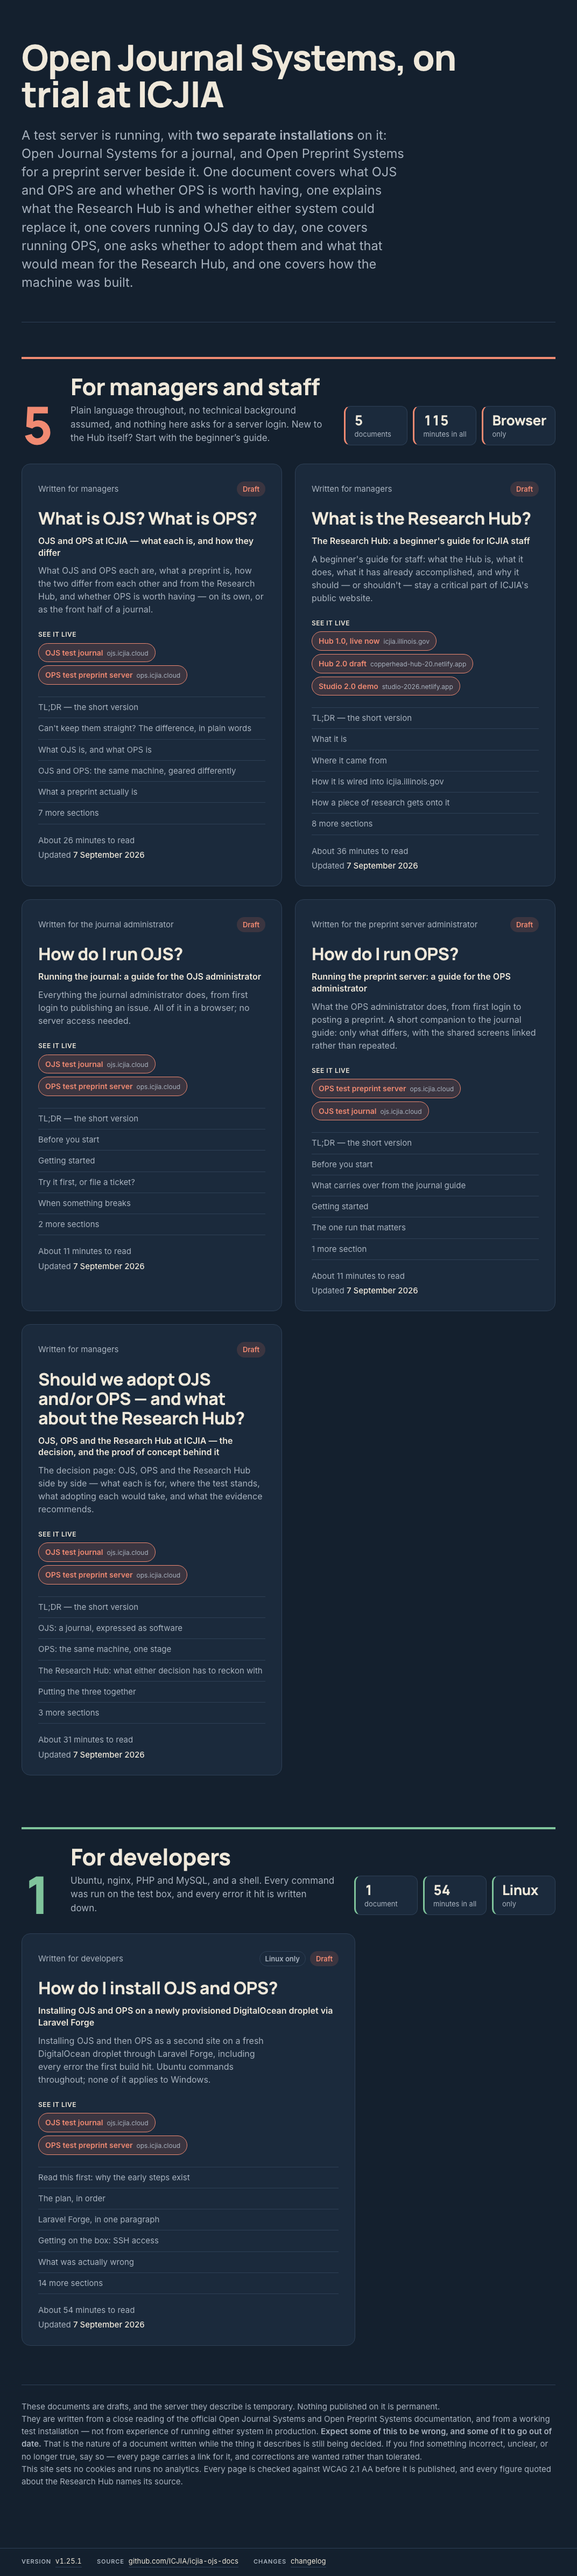
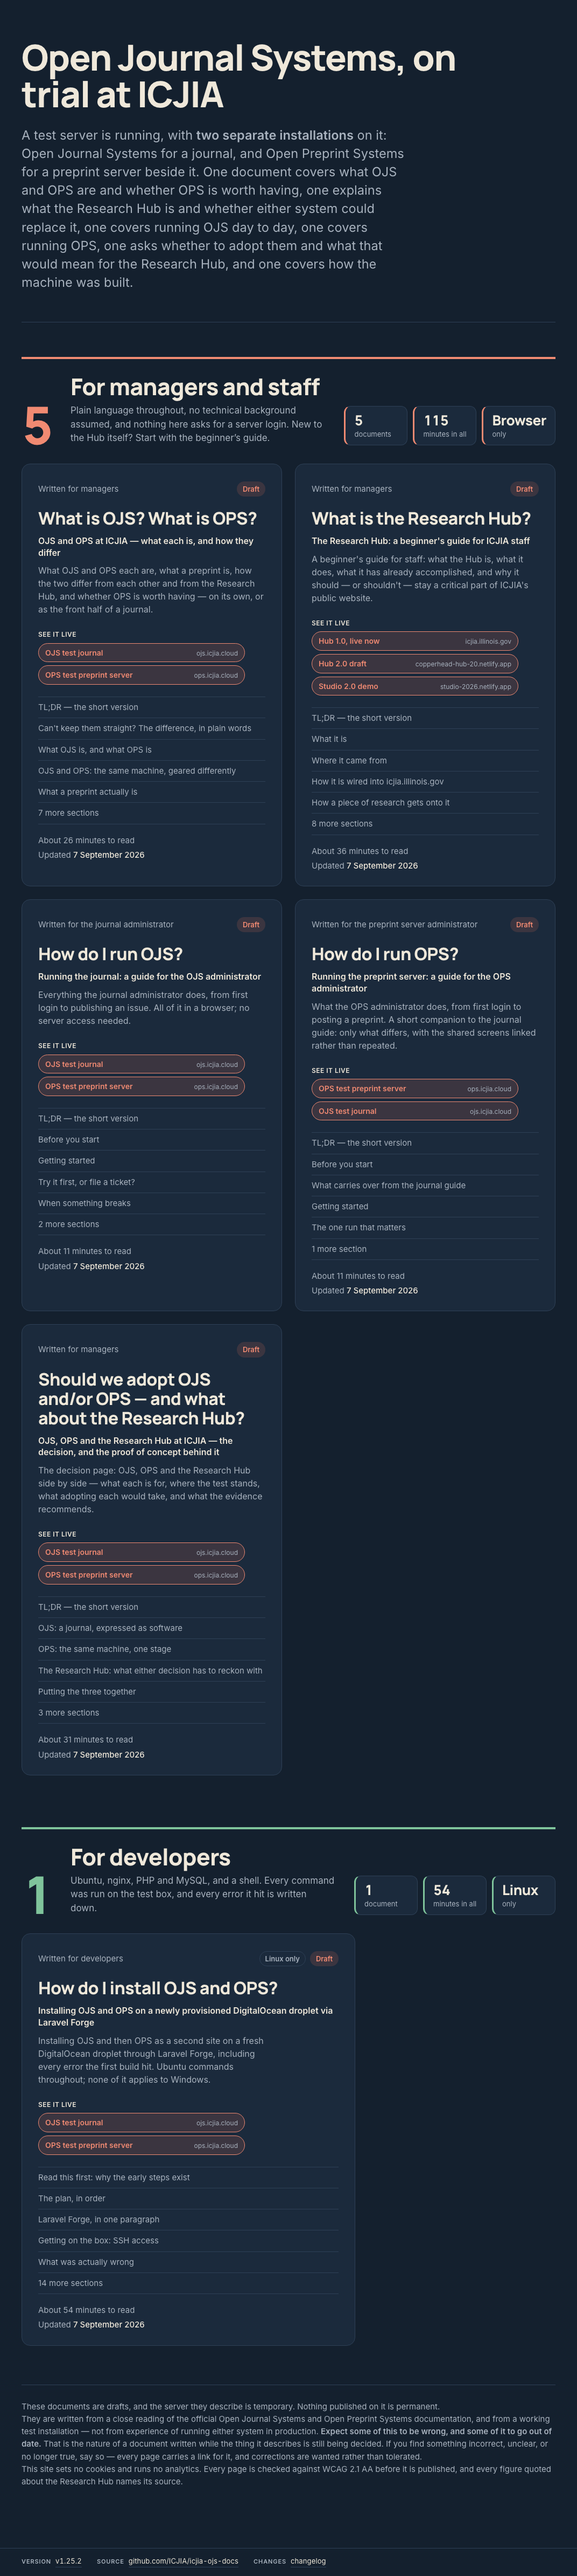
Release 1.25.2: "See it live" chips are one width everywhere
On the portal cards and on every document page each chip is now the
same fixed width - 24rem, capped at the container on narrow screens -
with the label at the left edge and the address at the right, so a
stack of chips reads as a column rather than a ragged list. On screens
too narrow for the width the address wraps under the label instead of
overflowing. One rule in the portal stylesheet and the same rule in
each of the six self-contained documents. Screenshots retaken.

diff --git a/src/documents/forge-droplet-runbook.html b/src/documents/forge-droplet-runbook.html
@@ -38,7 +38,7 @@
   /* see it live */
   .see{display:grid;justify-items:start;gap:10px;margin:22px 0 0;padding:18px 22px;border-radius:14px;border:1px solid var(--rule);background:var(--ink-2);font-size:17px;line-height:1.4;color:var(--paper-dim);max-width:none}
   .see .k{font-weight:700;color:var(--paper)}
-  .see a{display:inline-flex;align-items:baseline;gap:8px;padding:8px 14px;border-radius:999px;border:1px solid var(--pencil);background:var(--pencil-soft);color:var(--pencil);font-weight:600;text-decoration:none;white-space:nowrap}
+  .see a{display:flex;flex-wrap:wrap;justify-content:space-between;align-items:baseline;gap:4px 14px;box-sizing:border-box;width:min(24rem,100%);padding:8px 14px;border-radius:999px;border:1px solid var(--pencil);background:var(--pencil-soft);color:var(--pencil);font-weight:600;text-decoration:none}
   .see a small{font-weight:400;font-size:.85em;color:var(--paper-dim)}
   .see a:hover,.see a:focus-visible{background:var(--pencil);color:var(--ink)}
   .see a:hover small,.see a:focus-visible small{color:var(--ink)}

diff --git a/src/documents/ojs-administrator-guide.html b/src/documents/ojs-administrator-guide.html
@@ -38,7 +38,7 @@
   /* see it live */
   .see{display:grid;justify-items:start;gap:10px;margin:22px 0 0;padding:18px 22px;border-radius:14px;border:1px solid var(--rule);background:var(--ink-2);font-size:17px;line-height:1.4;color:var(--paper-dim);max-width:none}
   .see .k{font-weight:700;color:var(--paper)}
-  .see a{display:inline-flex;align-items:baseline;gap:8px;padding:8px 14px;border-radius:999px;border:1px solid var(--pencil);background:var(--pencil-soft);color:var(--pencil);font-weight:600;text-decoration:none;white-space:nowrap}
+  .see a{display:flex;flex-wrap:wrap;justify-content:space-between;align-items:baseline;gap:4px 14px;box-sizing:border-box;width:min(24rem,100%);padding:8px 14px;border-radius:999px;border:1px solid var(--pencil);background:var(--pencil-soft);color:var(--pencil);font-weight:600;text-decoration:none}
   .see a small{font-weight:400;font-size:.85em;color:var(--paper-dim)}
   .see a:hover,.see a:focus-visible{background:var(--pencil);color:var(--ink)}
   .see a:hover small,.see a:focus-visible small{color:var(--ink)}

diff --git a/src/documents/ojs-proof-of-concept.html b/src/documents/ojs-proof-of-concept.html
@@ -38,7 +38,7 @@
   /* see it live */
   .see{display:grid;justify-items:start;gap:10px;margin:22px 0 0;padding:18px 22px;border-radius:14px;border:1px solid var(--rule);background:var(--ink-2);font-size:17px;line-height:1.4;color:var(--paper-dim);max-width:none}
   .see .k{font-weight:700;color:var(--paper)}
-  .see a{display:inline-flex;align-items:baseline;gap:8px;padding:8px 14px;border-radius:999px;border:1px solid var(--pencil);background:var(--pencil-soft);color:var(--pencil);font-weight:600;text-decoration:none;white-space:nowrap}
+  .see a{display:flex;flex-wrap:wrap;justify-content:space-between;align-items:baseline;gap:4px 14px;box-sizing:border-box;width:min(24rem,100%);padding:8px 14px;border-radius:999px;border:1px solid var(--pencil);background:var(--pencil-soft);color:var(--pencil);font-weight:600;text-decoration:none}
   .see a small{font-weight:400;font-size:.85em;color:var(--paper-dim)}
   .see a:hover,.see a:focus-visible{background:var(--pencil);color:var(--ink)}
   .see a:hover small,.see a:focus-visible small{color:var(--ink)}

diff --git a/src/documents/ops-administrator-guide.html b/src/documents/ops-administrator-guide.html
@@ -38,7 +38,7 @@
   /* see it live */
   .see{display:grid;justify-items:start;gap:10px;margin:22px 0 0;padding:18px 22px;border-radius:14px;border:1px solid var(--rule);background:var(--ink-2);font-size:17px;line-height:1.4;color:var(--paper-dim);max-width:none}
   .see .k{font-weight:700;color:var(--paper)}
-  .see a{display:inline-flex;align-items:baseline;gap:8px;padding:8px 14px;border-radius:999px;border:1px solid var(--pencil);background:var(--pencil-soft);color:var(--pencil);font-weight:600;text-decoration:none;white-space:nowrap}
+  .see a{display:flex;flex-wrap:wrap;justify-content:space-between;align-items:baseline;gap:4px 14px;box-sizing:border-box;width:min(24rem,100%);padding:8px 14px;border-radius:999px;border:1px solid var(--pencil);background:var(--pencil-soft);color:var(--pencil);font-weight:600;text-decoration:none}
   .see a small{font-weight:400;font-size:.85em;color:var(--paper-dim)}
   .see a:hover,.see a:focus-visible{background:var(--pencil);color:var(--ink)}
   .see a:hover small,.see a:focus-visible small{color:var(--ink)}

diff --git a/src/documents/ops-preprint-server.html b/src/documents/ops-preprint-server.html
@@ -37,7 +37,7 @@
   /* see it live */
   .see{display:grid;justify-items:start;gap:10px;margin:22px 0 0;padding:18px 22px;border-radius:14px;border:1px solid var(--rule);background:var(--ink-2);font-size:17px;line-height:1.4;color:var(--paper-dim);max-width:none}
   .see .k{font-weight:700;color:var(--paper)}
-  .see a{display:inline-flex;align-items:baseline;gap:8px;padding:8px 14px;border-radius:999px;border:1px solid var(--pencil);background:var(--pencil-soft);color:var(--pencil);font-weight:600;text-decoration:none;white-space:nowrap}
+  .see a{display:flex;flex-wrap:wrap;justify-content:space-between;align-items:baseline;gap:4px 14px;box-sizing:border-box;width:min(24rem,100%);padding:8px 14px;border-radius:999px;border:1px solid var(--pencil);background:var(--pencil-soft);color:var(--pencil);font-weight:600;text-decoration:none}
   .see a small{font-weight:400;font-size:.85em;color:var(--paper-dim)}
   .see a:hover,.see a:focus-visible{background:var(--pencil);color:var(--ink)}
   .see a:hover small,.see a:focus-visible small{color:var(--ink)}

diff --git a/src/documents/what-is-the-research-hub.html b/src/documents/what-is-the-research-hub.html
@@ -37,7 +37,7 @@
   /* see it live */
   .see{display:grid;justify-items:start;gap:10px;margin:22px 0 0;padding:18px 22px;border-radius:14px;border:1px solid var(--rule);background:var(--ink-2);font-size:17px;line-height:1.4;color:var(--paper-dim);max-width:none}
   .see .k{font-weight:700;color:var(--paper)}
-  .see a{display:inline-flex;align-items:baseline;gap:8px;padding:8px 14px;border-radius:999px;border:1px solid var(--pencil);background:var(--pencil-soft);color:var(--pencil);font-weight:600;text-decoration:none;white-space:nowrap}
+  .see a{display:flex;flex-wrap:wrap;justify-content:space-between;align-items:baseline;gap:4px 14px;box-sizing:border-box;width:min(24rem,100%);padding:8px 14px;border-radius:999px;border:1px solid var(--pencil);background:var(--pencil-soft);color:var(--pencil);font-weight:600;text-decoration:none}
   .see a small{font-weight:400;font-size:.85em;color:var(--paper-dim)}
   .see a:hover,.see a:focus-visible{background:var(--pencil);color:var(--ink)}
   .see a:hover small,.see a:focus-visible small{color:var(--ink)}

diff --git a/src/styles/portal.css b/src/styles/portal.css
@@ -373,9 +373,13 @@ body {
 }
 
 .live-link {
-  display: inline-flex;
+  display: flex;
+  flex-wrap: wrap;
+  justify-content: space-between;
   align-items: baseline;
-  gap: 7px;
+  gap: 4px 12px;
+  box-sizing: border-box;
+  width: min(24rem, 100%);
   padding: 6px 12px;
   border-radius: 999px;
   border: 1px solid var(--pencil);

diff --git a/CHANGELOG.md b/CHANGELOG.md
@@ -5,6 +5,17 @@ All notable changes to this project are documented here.
 The format follows [Keep a Changelog](https://keepachangelog.com/en/1.1.0/),
 and this project adheres to [Semantic Versioning](https://semver.org/spec/v2.0.0.html).
 
+## [1.25.2] - 2026-09-07
+
+### Changed
+
+- **"See it live" chips are one width everywhere.** On the portal cards and
+  on every document page each chip is now the same fixed width (24rem,
+  capped at the container on narrow screens), with the label at the left
+  edge and the address at the right, so a stack of chips reads as a column
+  rather than a ragged list. On screens too narrow for the width, the
+  address wraps under the label instead of overflowing.
+
 ## [1.25.1] - 2026-09-07
 
 ### Changed
@@ -1255,6 +1266,7 @@ Title II / IITAA review would expect.
 The contrast, heading-order and personal-name changes were made in the source
 documents, so the standalone files carry them too.
 
+[1.25.2]: https://github.com/ICJIA/icjia-ojs-docs/releases/tag/v1.25.2
 [1.25.1]: https://github.com/ICJIA/icjia-ojs-docs/releases/tag/v1.25.1
 [1.25.0]: https://github.com/ICJIA/icjia-ojs-docs/releases/tag/v1.25.0
 [1.24.0]: https://github.com/ICJIA/icjia-ojs-docs/releases/tag/v1.24.0
